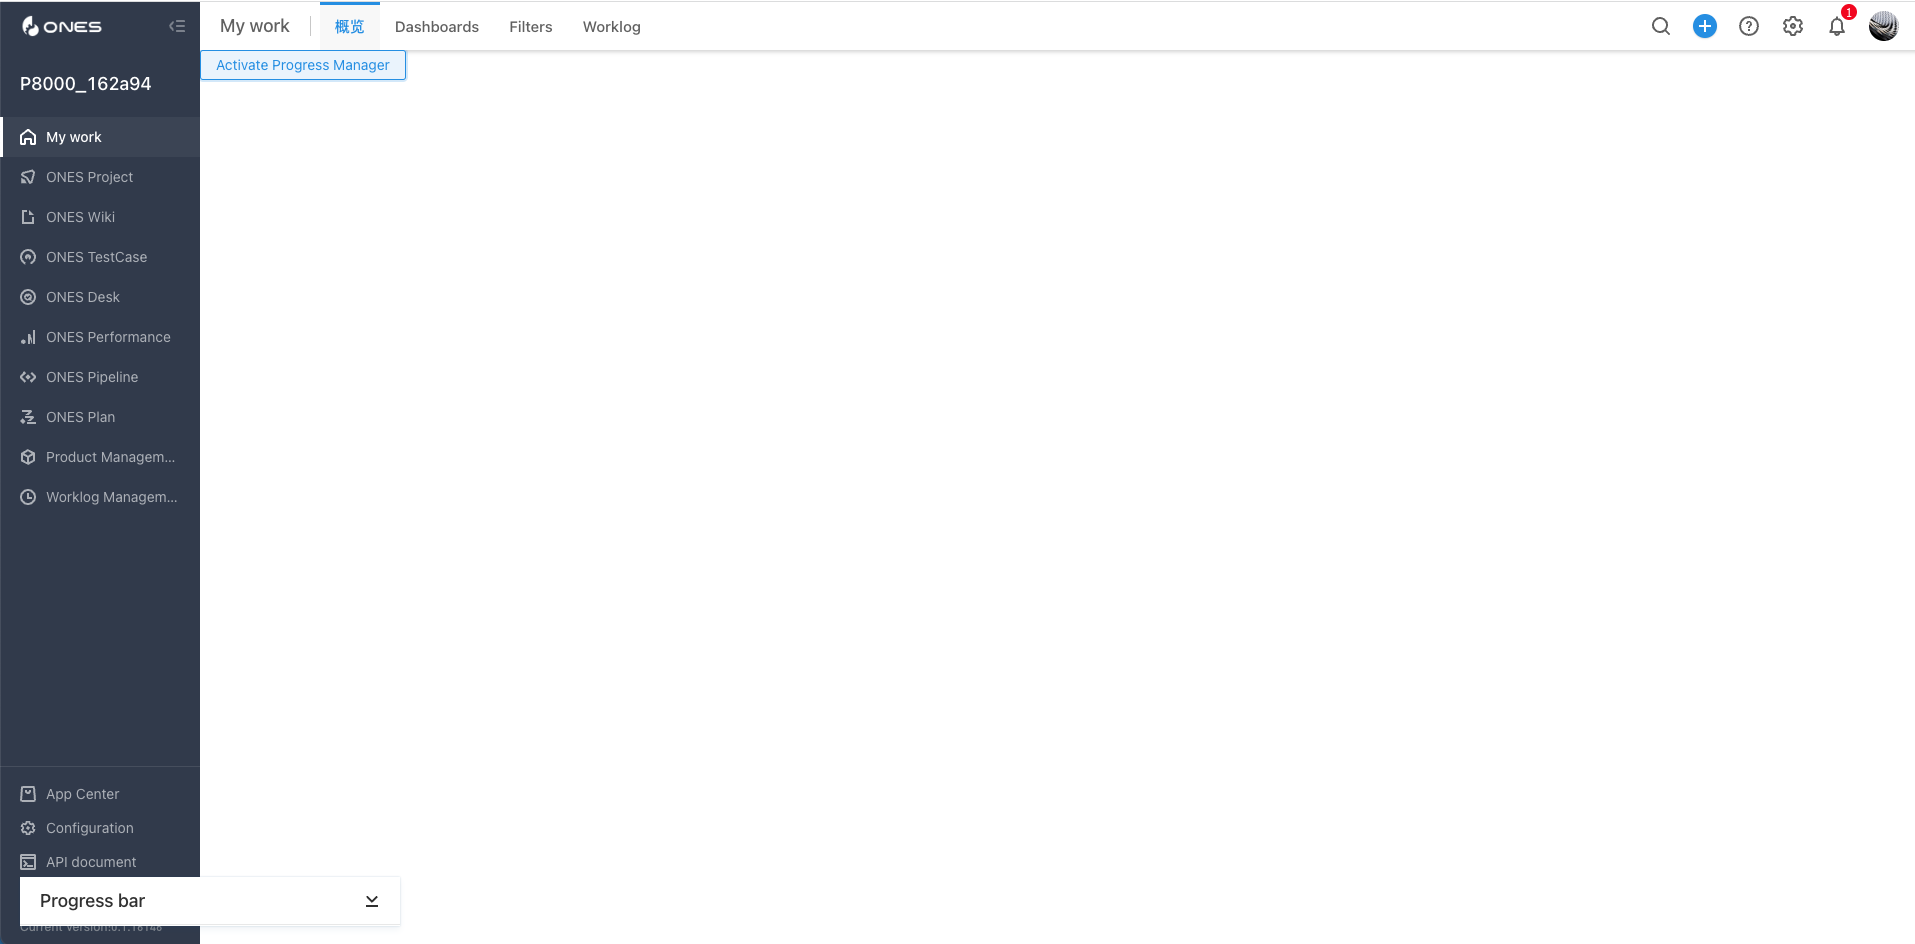
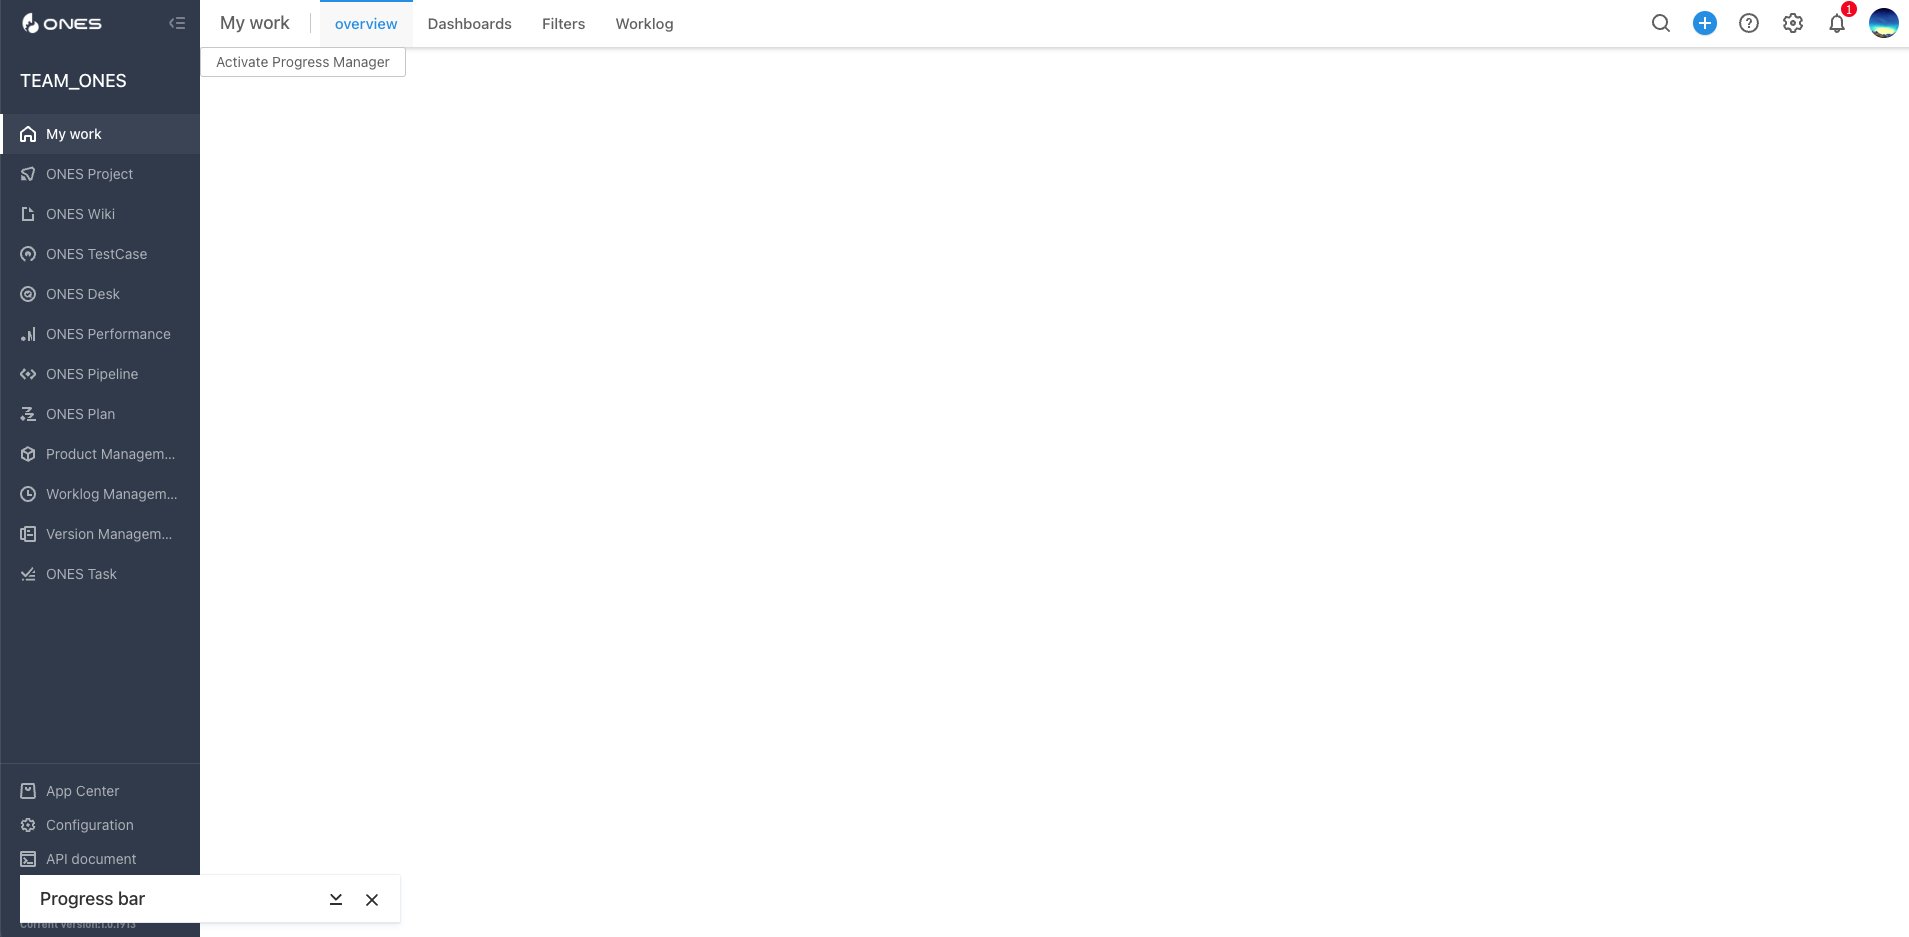
fix: replace it with an english picture

diff --git a/docs/guide/overview.md b/docs/guide/overview.md
@@ -18,14 +18,12 @@ On the basis of the ONES system, the open platform abstracts the code framework 
 ## Features of Open Platform
 
 - Low development cost
-  - Based on `React` and `Node.js`, use a consistent language for front-end and back-end development and customization;
+  - Based on `React` and `Node.js`, use a consistent language for frontend and backend development and customization;
   - A large number of declarations are used to replace code development, which further reduces the learning cost and development threshold for developers;
 - High development efficiency
-  - Pay attention to developer experience, provide all-round developer support, and provide tools such as full-process development, debugging, and environment integration;
+  - Pay attention to developer experience, provide all round developer support, and provide tools such as full-process development, debugging, and environment integration;
   - Support “what you see is what you get” local plugin development and debugging experience;
   - Provide "continuous integration" related infrastructure and tools to reduce development and test integration costs;
 - Strong openness
   - Provide comprehensive secondary development capabilities based on existing system function modules;
-  - Good abstraction of the capability model is carried out, which is easy to understand and at the same time satisfies in-depth customization;
-
-For complete content, please visit [ONES open platform technology White Paper](../../static/ONES%20%E5%BC%80%E6%94%BE%E5%B9%B3%E5%8F%B0%E6%8A%80%E6%9C%AF%E7%99%BD%E7%9A%AE%E4%B9%A6-1.0.pdf)
+  - Good abstraction of the capability model is carried out, which is easy to understand and at the same time satisfies in depth customization;

diff --git a/docs/guide/abilities/interface-request.md b/docs/guide/abilities/interface-request.md
@@ -54,7 +54,7 @@ Injected the implementation of API into `index.ts`:
 // example function
 export async function hello(request: PluginRequest): Promise<PluginResponse> {
   const body = request.body || {}
-  Logger.info('[Plugin] hello ======= 请求成功')
+  Logger.info('[Plugin] hello ======= Request successful')
   return {
     body: {
       res: 'hello world',
@@ -145,7 +145,7 @@ export async function hello(request: PluginRequest): Promise<PluginResponse> {
 }
 ```
 
-You may have noticed that we brought a `root: true` when we requested it, and also told you that its default value is: **true**, is actually what we use to distinguish permissions. If you use an ordinary user to make a request, you will be required to bring two request headers, `Ones-User- Id` and `Ones-Auth- Token`. But currently, you can only obtain these two request headers in the following two ways.
+You may have noticed that we brought a `root: true` when we requested it, and also told you that its default value is: **true**, is actually what we use to distinguish permissions. If you use an ordinary user to make a request, you will be required to bring two request headers, `Ones-User-Id` and `Ones-Auth-Token`. But currently, you can only obtain these two request headers in the following two ways.
 
 - When making a frontend request, put `Ones-User-Id` and `Ones-Auth-Token` in the request header, and then obtain the request header from the request object.
 - Request ONES [Get login information](../../api/auth/auth.md#获取登录信息) API.

diff --git a/docs/guide/development.md b/docs/guide/development.md
@@ -67,10 +67,10 @@ Now starting dev server and node-host...
 <i> [webpack-dev-server] On Your Network (IPv4): http://10.15.3.38:3000/
 <i> [webpack-dev-server] On Your Network (IPv6): http://[fe80::1]:3000/
 <i> [webpack-dev-server] Content not from webpack is served from '/Users/dev/ONES/open-platform/public' directory
-开始连接!
+Start the connection!
 {
   action: 'run',
-  email: 'idatest3@ones.ai',
+  email: 'idatest3@ones.com',
   password: 'BULWzBk6ixRM',
   reinstall: false,
   webIp: '10.15.3.38',
@@ -80,12 +80,12 @@ Now starting dev server and node-host...
   user_uuid: 'SFBs7BHh',
   webServiceUrl: '10.15.3.38:3000'
 }
-本地调试返回值: {"instance_uuid":"1d99926e"}
+Local debug return value: {"instance_uuid":"1d99926e"}
 [Plugin] Install
-插件 Install 钩子函数运行成功!
+The plugin Install hook function runs successfully!
 [Plugin] Enable
-插件 Enable 钩子函数运行成功!
-收到消息:  all done
+The plugin Enable hook function runs successfully!
+Receive a message:  all done
 ```
 
 #### Debug frontend

diff --git a/i18n/zh-CN/docusaurus-plugin-content-docs/current/guide/overview.md b/i18n/zh-CN/docusaurus-plugin-content-docs/current/guide/overview.md
@@ -27,4 +27,3 @@ sidebar_position: 1
 - 强开放能力
   - 基于现有系统功能模块，提供全面的二次开发能力
   - 进行了良好的能力模型抽象，易于理解的同时， 满足深度定制
-    完整内容请浏览 [ONES 开放平台技术白皮书](../../../../../static/ONES%20%E5%BC%80%E6%94%BE%E5%B9%B3%E5%8F%B0%E6%8A%80%E6%9C%AF%E7%99%BD%E7%9A%AE%E4%B9%A6-1.0.pdf)
